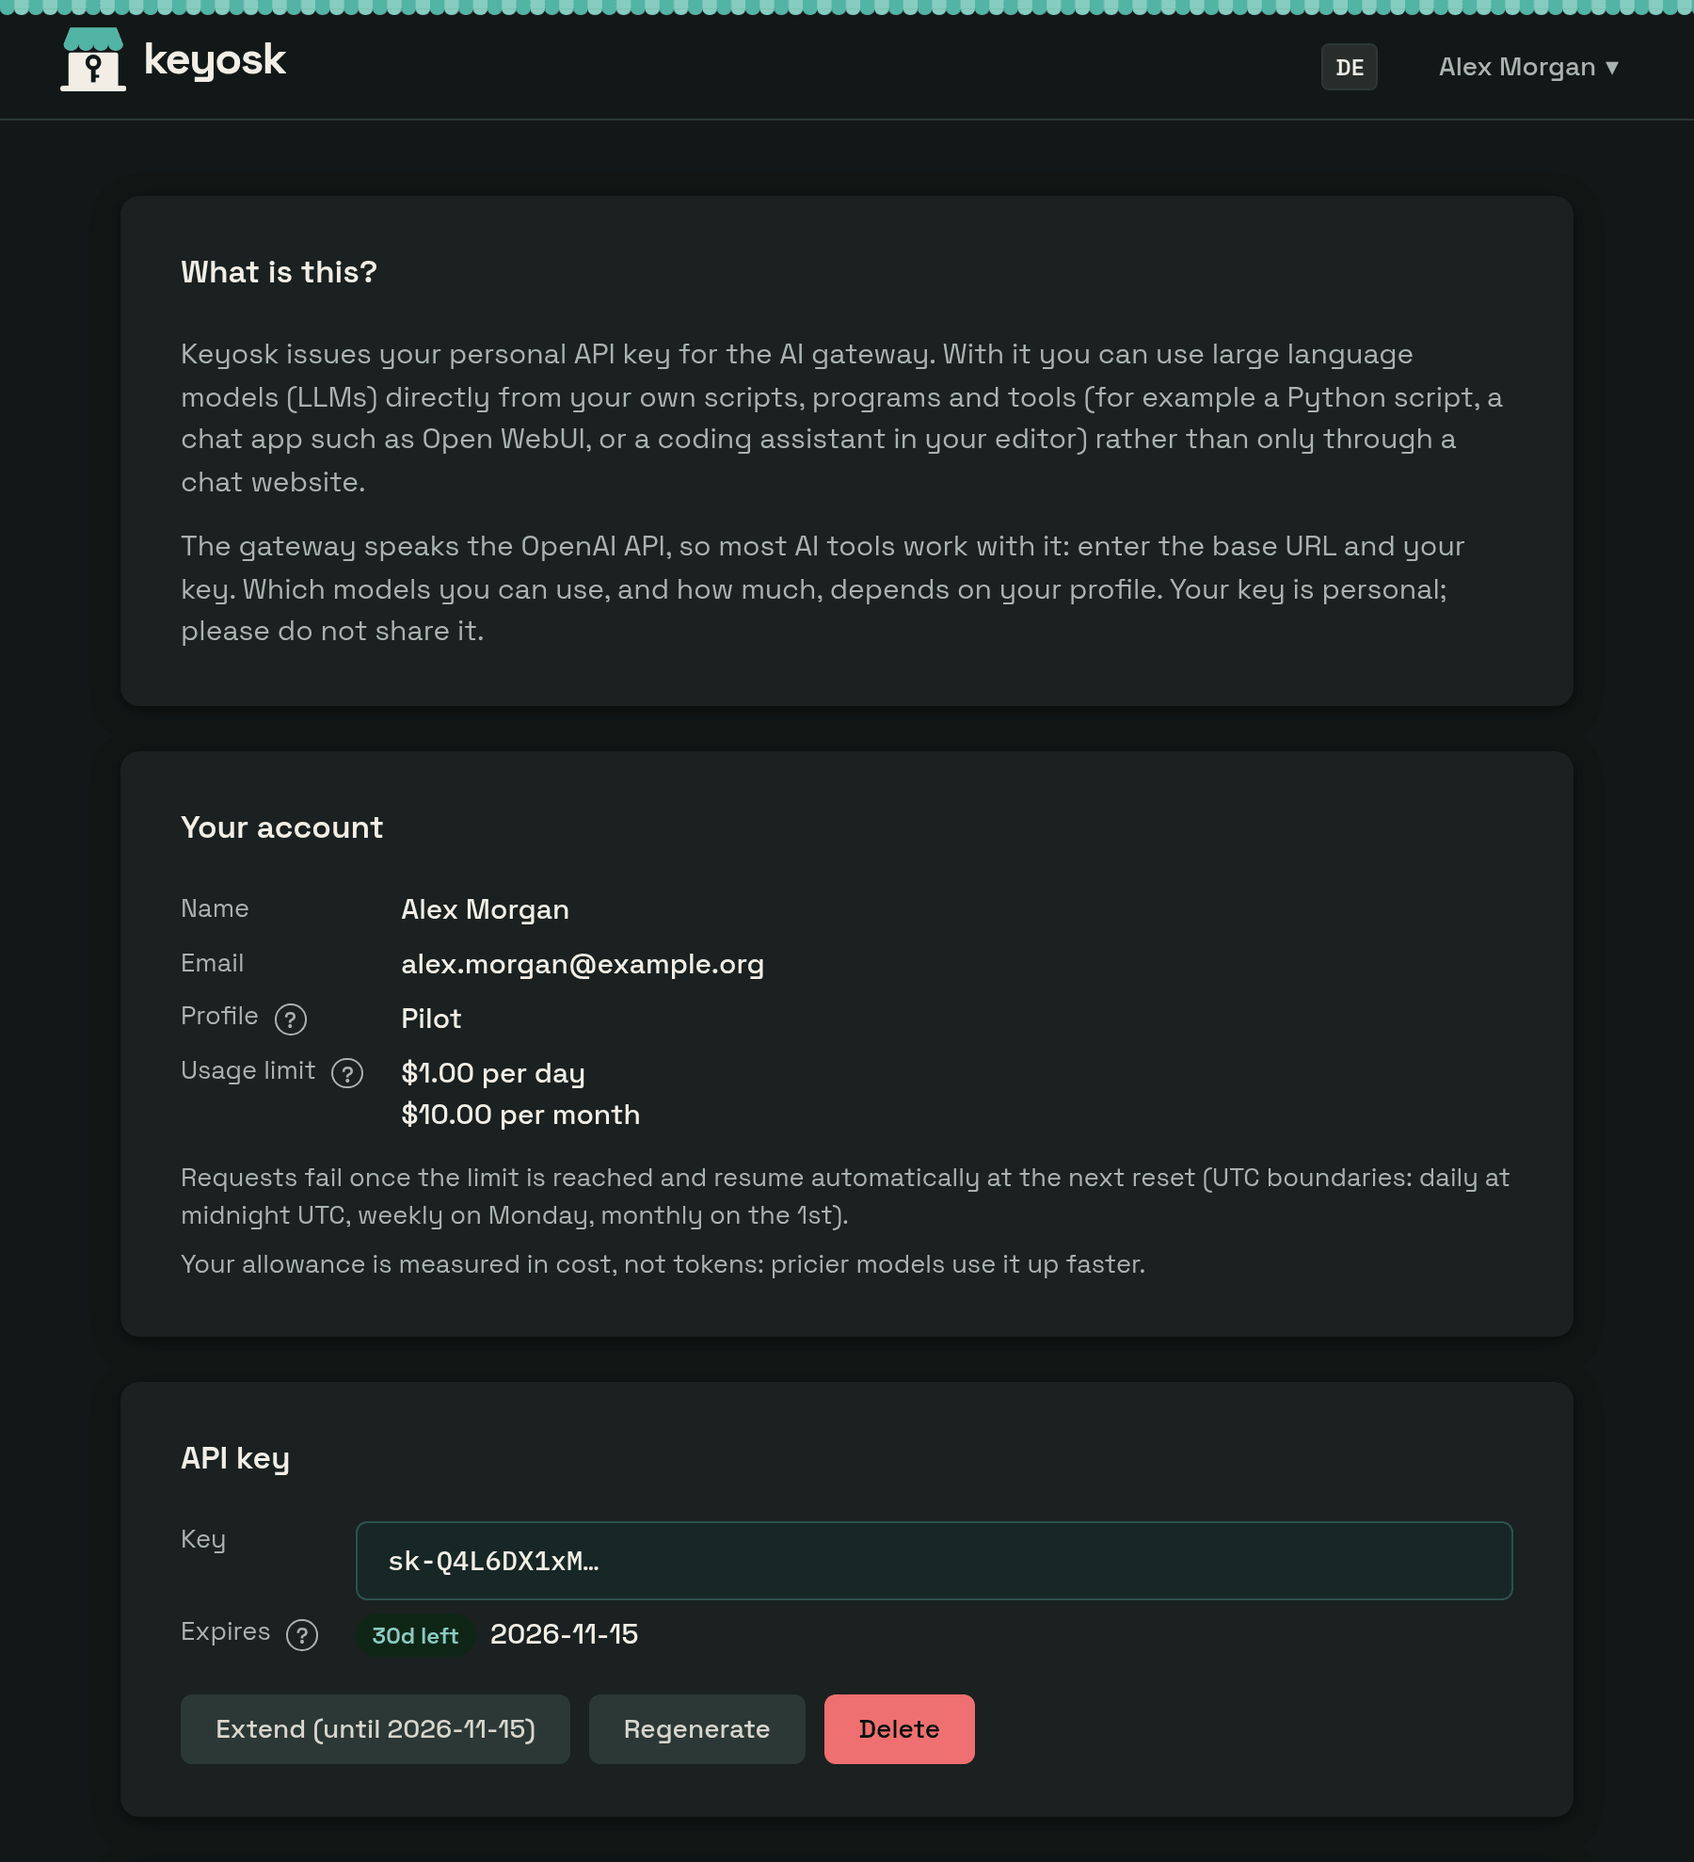
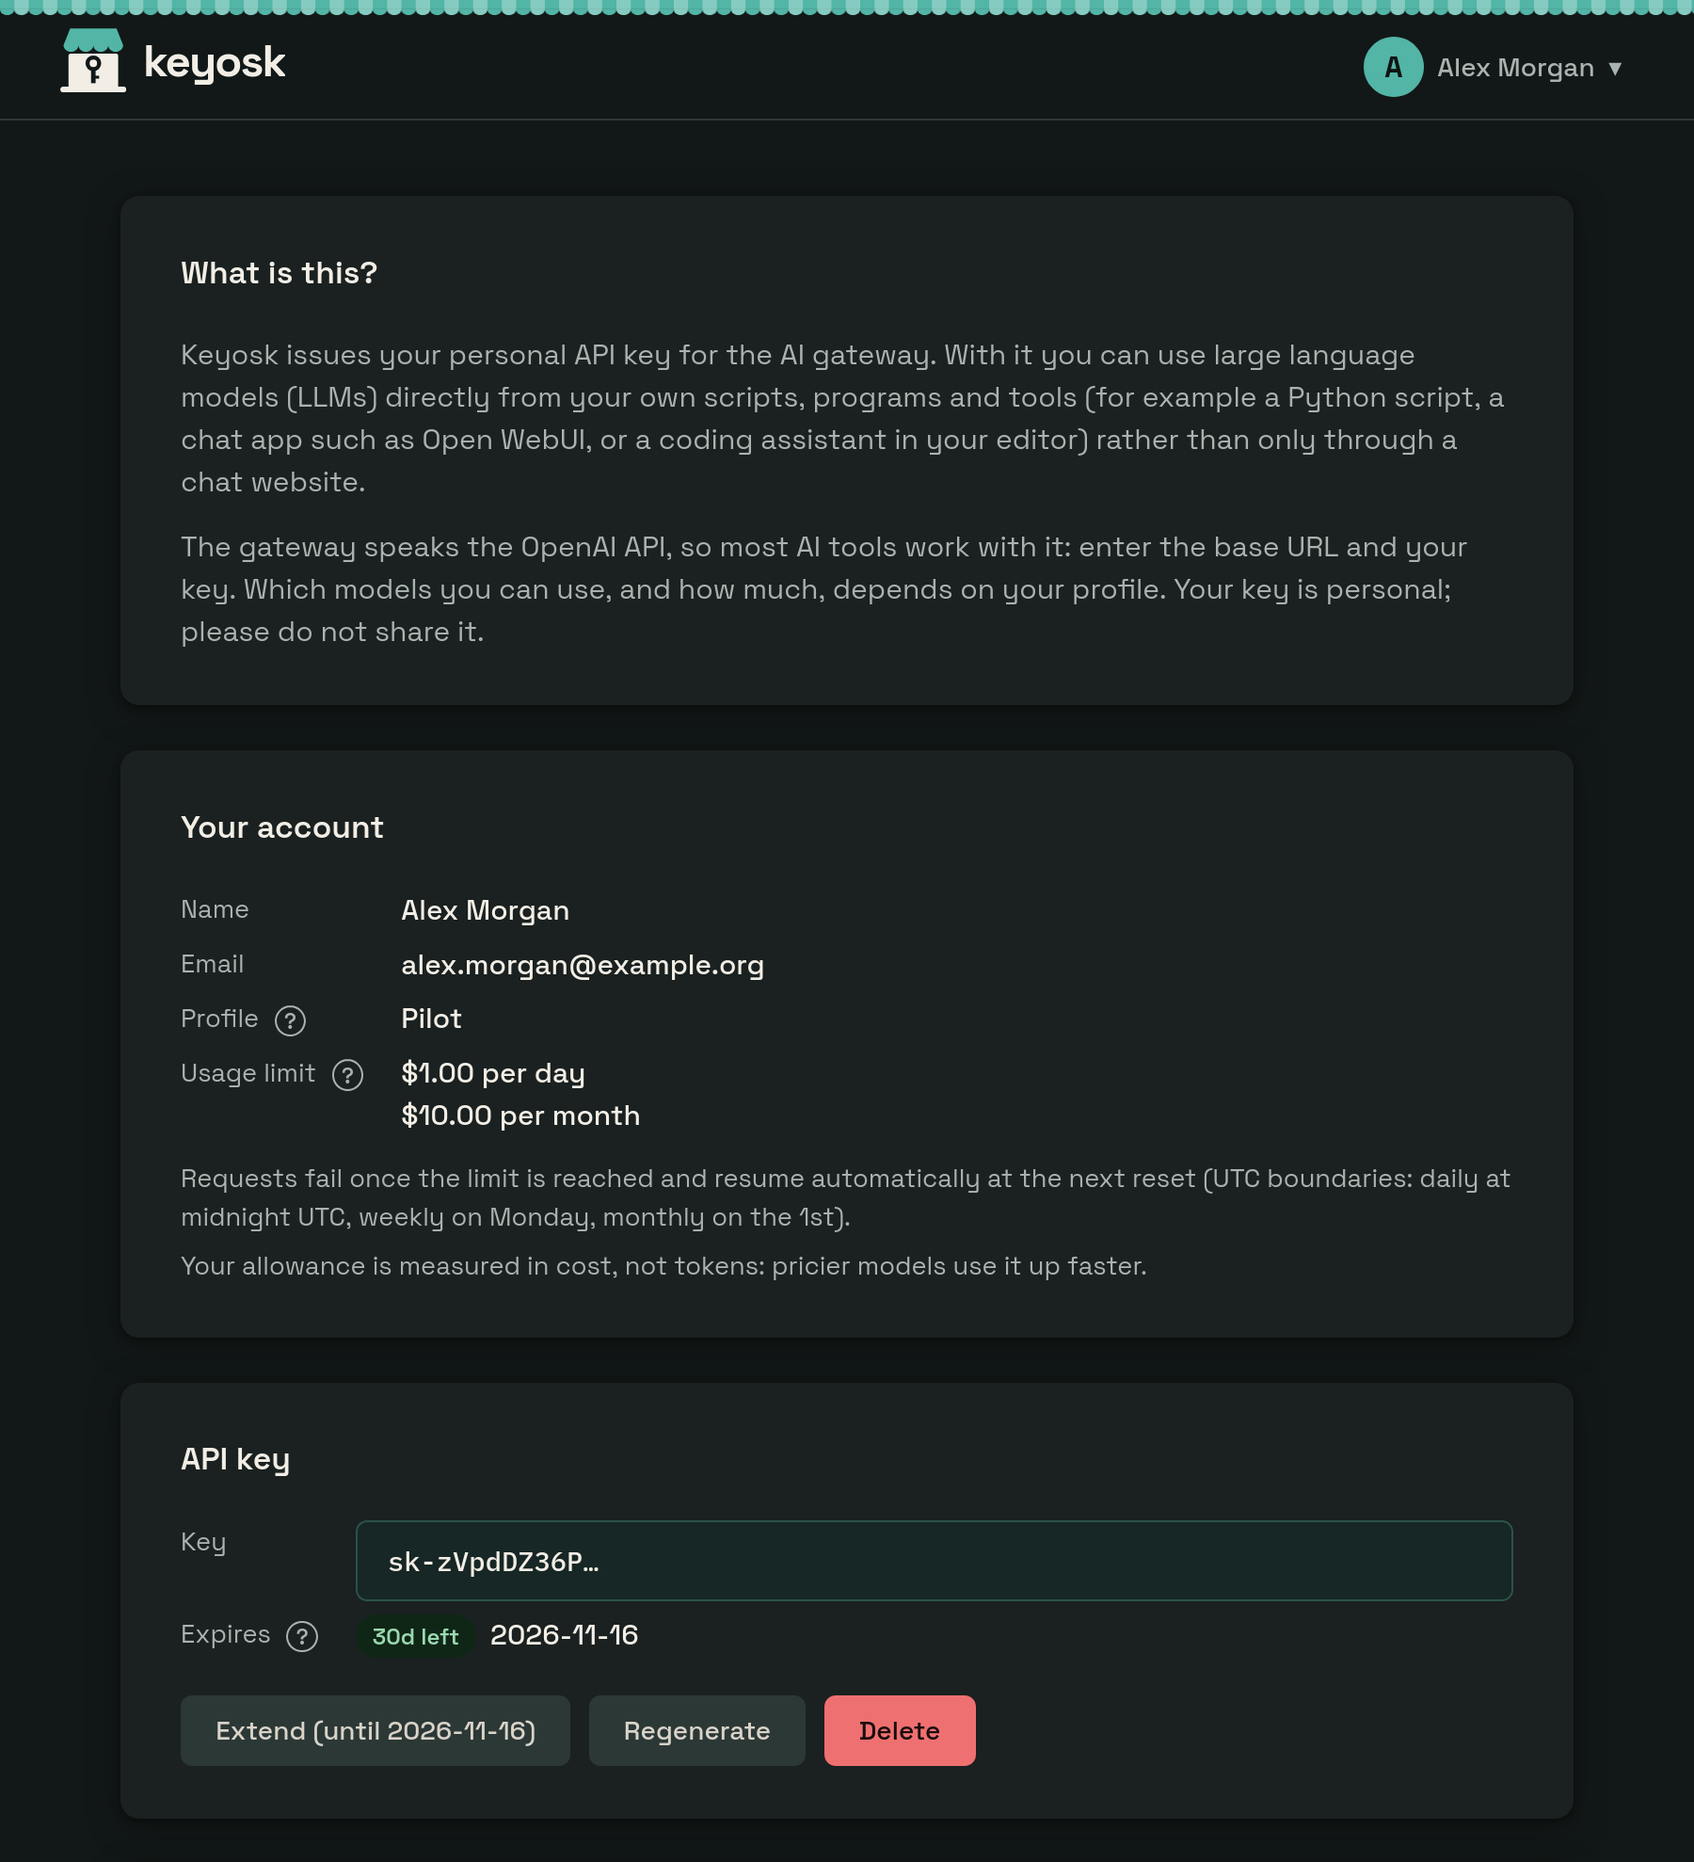
Point signed-in readers of the privacy notice to their settings
A signed-in reader gets the privacy notice in the language of the rest of
the interface and, unlike an anonymous one, no tabs to switch it. Someone
who never chose a language only follows the browser and had no hint where
to change it. Where the tabs would be, they now get a link to the account
settings, as long as the notice is written in more than one language.

The default choice in the language and theme dropdowns said "System
default", but the language comes from the browser, and so does the light
or dark mode: prefers-color-scheme is what the browser reports, and
browsers can override the operating system. Both now say "Browser
setting", and the docs no longer speak of the system's mode.

The dashboard screenshots still showed the language button and the old
header; they are retaken with the account menu.

diff --git a/web/templates/account.html b/web/templates/account.html
@@ -36,7 +36,7 @@
         <div class="form-group">
           <label for="setting-lang">{{T .Lang "lang.label"}}</label>
           <select id="setting-lang" name="lang">
-            <option value=""{{if not .LangPref}} selected{{end}}>{{T .Lang "account.system"}}</option>
+            <option value=""{{if not .LangPref}} selected{{end}}>{{T .Lang "account.browser"}}</option>
             {{- $pref := .LangPref}}{{range .Langs}}
             <option value="{{.}}" lang="{{.}}"{{if eq . $pref}} selected{{end}}>{{.Name}}</option>
             {{- end}}
@@ -45,7 +45,7 @@
         <div class="form-group">
           <label for="setting-theme">{{T .Lang "account.theme"}}</label>
           <select id="setting-theme" name="theme">
-            <option value=""{{if not .Theme}} selected{{end}}>{{T .Lang "account.system"}}</option>
+            <option value=""{{if not .Theme}} selected{{end}}>{{T .Lang "account.browser"}}</option>
             {{- $theme := .Theme}}{{range .Themes}}
             <option value="{{.}}"{{if eq . $theme}} selected{{end}}>{{if eq . "light"}}{{T $.Lang "account.light"}}{{else}}{{T $.Lang "account.dark"}}{{end}}</option>
             {{- end}}

diff --git a/web/static/style.css b/web/static/style.css
@@ -55,7 +55,7 @@
 /* ── Design tokens ───────────────────────────────────────── */
 /* The Keyosk palette: warm paper, dark teal-black ink, one teal accent.
    Each colour is a light-dark() pair, so the palette follows color-scheme:
-   the system's by default, or the one chosen in the account settings, which
+   the browser's by default, or the one chosen in the account settings, which
    the server writes onto <html data-theme>. */
 :root {
   /* Also tells the browser which scheme its own controls follow: without it
@@ -328,6 +328,9 @@ main.main-wide { max-width: 1280px; }
 /* The privacy notice is the operator's own prose markup, which the reset above
    would run together into one block. */
 .notice h3 { margin-top: 1.5rem; }
+/* Where an anonymous reader gets the language tabs, a signed-in one gets a
+   link to the account settings. */
+.notice-lang { text-align: right; font-size: .85rem; margin-bottom: 1rem; }
 .notice p, .notice ul { margin-bottom: .75rem; }
 .notice ul { padding-left: 1.25rem; }
 .notice li { margin-bottom: .4rem; }

diff --git a/web/templates/privacy.html b/web/templates/privacy.html
@@ -18,6 +18,8 @@
       <a class="tab-btn{{if eq . $cur}} active{{end}}" href="/privacy?lang={{.}}" lang="{{.}}"{{if eq . $cur}} aria-current="page"{{end}}>{{.Name}}</a>
       {{- end}}
     </nav>
+    {{else if .SettingsLink}}
+    <p class="notice-lang"><a href="/account">{{T .Lang "privacy.changelang"}}</a></p>
     {{end}}
     <div class="notice" lang="{{.NoticeLang}}">
       {{.Notice}}

diff --git a/internal/handlers/account_test.go b/internal/handlers/account_test.go
@@ -87,18 +87,18 @@ func TestAccountPageNeedsALogin(t *testing.T) {
 	}
 }
 
-// Without a choice both settings say "system", even when the browser asks for
-// a language the portal has: following the browser is not the same as having
-// picked German.
+// Without a choice both settings say "browser setting", even when the browser
+// asks for a language the portal has: following the browser is not the same as
+// having picked German.
 func TestAccountPageSelectsTheCurrentChoices(t *testing.T) {
 	ui, _, _, _ := newTestUI(t, "acct3")
 
 	page := getAccount(t, ui, "/account").Body.String()
 	if got := selected(t, page, "lang"); got != "" {
-		t.Errorf("language %q selected without a choice, want system", got)
+		t.Errorf("language %q selected without a choice, want the browser setting", got)
 	}
 	if got := selected(t, page, "theme"); got != "" {
-		t.Errorf("theme %q selected without a choice, want system", got)
+		t.Errorf("theme %q selected without a choice, want the browser setting", got)
 	}
 	// Every language is offered under its own name.
 	for _, l := range i18n.Supported {
@@ -119,8 +119,8 @@ func TestAccountPageSelectsTheCurrentChoices(t *testing.T) {
 	}
 }
 
-// A choice is kept for a year; "system" deletes the cookie, so the browser
-// and the operating system decide again.
+// A choice is kept for a year; the browser setting deletes the cookie, so the
+// browser decides again.
 func TestSaveAccountStoresAndClearsTheChoices(t *testing.T) {
 	ui, _, _, _ := newTestUI(t, "acct4")
 
@@ -148,7 +148,7 @@ func TestSaveAccountStoresAndClearsTheChoices(t *testing.T) {
 	c = cookies(saveAccount(t, ui, url.Values{"lang": {""}, "theme": {""}}))
 	for _, name := range []string{i18n.CookieName, themeCookie} {
 		if c[name] == nil || c[name].MaxAge >= 0 {
-			t.Errorf("choosing system does not delete the %s cookie: %+v", name, c[name])
+			t.Errorf("choosing the browser setting does not delete the %s cookie: %+v", name, c[name])
 		}
 	}
 }
@@ -183,7 +183,7 @@ func TestAccountPageConfirmsTheSave(t *testing.T) {
 }
 
 // A chosen theme is on <html> when the page arrives, so it applies before the
-// first paint; without one the page has no attribute and follows the system.
+// first paint; without one the page has no attribute and follows the browser.
 func TestPagesCarryTheChosenTheme(t *testing.T) {
 	ui, _, _, _ := newTestUI(t, "acct7")
 
@@ -224,7 +224,7 @@ func TestPagesCarryTheChosenTheme(t *testing.T) {
 func TestAccountPageFullyGerman(t *testing.T) {
 	ui, _, _, _ := newTestUI(t, "acct8")
 	page := getAccount(t, ui, "/account?saved=1", &http.Cookie{Name: i18n.CookieName, Value: "de"}).Body.String()
-	for _, english := range []string{"Account settings", "Appearance", "Username", "User ID", ">Theme<", ">Light<", ">Dark<", ">Save<", "System default", "have been saved"} {
+	for _, english := range []string{"Account settings", "Appearance", "Username", "User ID", ">Theme<", ">Light<", ">Dark<", ">Save<", "Browser setting", "have been saved"} {
 		if strings.Contains(page, english) {
 			t.Errorf("untranslated on the German page: %q", english)
 		}

diff --git a/internal/i18n/messages.go b/internal/i18n/messages.go
@@ -7,15 +7,16 @@ package i18n
 // itself — a visibly wrong label is better than a blank page.
 var messages = map[string]map[Lang]string{
 	// ── Shared ──────────────────────────────────────────────────────────
-	"app.title":     {DE: "Keyosk", EN: "Keyosk"},
-	"nav.admin":     {DE: "Administration", EN: "Admin"},
-	"nav.dashboard": {DE: "Übersicht", EN: "Dashboard"},
-	"nav.signout":   {DE: "Abmelden", EN: "Sign out"},
-	"nav.privacy":   {DE: "Datenschutz", EN: "Privacy"},
-	"nav.account":   {DE: "Konto", EN: "Account"},
-	"privacy.title": {DE: "Datenschutzhinweise", EN: "Privacy notice"},
-	"lang.label":    {DE: "Sprache", EN: "Language"},
-	"nav.settings":  {DE: "Kontoeinstellungen", EN: "Account settings"},
+	"app.title":          {DE: "Keyosk", EN: "Keyosk"},
+	"nav.admin":          {DE: "Administration", EN: "Admin"},
+	"nav.dashboard":      {DE: "Übersicht", EN: "Dashboard"},
+	"nav.signout":        {DE: "Abmelden", EN: "Sign out"},
+	"nav.privacy":        {DE: "Datenschutz", EN: "Privacy"},
+	"nav.account":        {DE: "Konto", EN: "Account"},
+	"privacy.title":      {DE: "Datenschutzhinweise", EN: "Privacy notice"},
+	"privacy.changelang": {DE: "Sprache ändern", EN: "Change language"},
+	"lang.label":         {DE: "Sprache", EN: "Language"},
+	"nav.settings":       {DE: "Kontoeinstellungen", EN: "Account settings"},
 
 	// ── Account settings ────────────────────────────────────────────────
 	"account.title":      {DE: "Kontoeinstellungen", EN: "Account settings"},
@@ -24,7 +25,7 @@ var messages = map[string]map[Lang]string{
 	"account.subject":    {DE: "OIDC-Subject", EN: "OIDC subject"},
 	"account.appearance": {DE: "Darstellung", EN: "Appearance"},
 	"account.theme":      {DE: "Farbschema", EN: "Theme"},
-	"account.system":     {DE: "Wie im System", EN: "System default"},
+	"account.browser":    {DE: "Wie im Browser", EN: "Browser setting"},
 	"account.light":      {DE: "Hell", EN: "Light"},
 	"account.dark":       {DE: "Dunkel", EN: "Dark"},
 	"account.save":       {DE: "Speichern", EN: "Save"},

diff --git a/internal/handlers/privacy.go b/internal/handlers/privacy.go
@@ -28,10 +28,12 @@ type privacyData struct {
 	// from Lang when the reader's language has none.
 	NoticeLang i18n.Lang
 	// Tabs are the languages an anonymous reader can switch the notice to,
-	// empty unless there is more than one. A signed-in reader has chosen a
-	// language in the account settings and gets that.
-	Tabs     []i18n.Lang
-	TitleKey string
+	// empty unless there is more than one. A signed-in reader gets the
+	// notice in the interface's language, which the account settings choose,
+	// so SettingsLink points them there instead.
+	Tabs         []i18n.Lang
+	SettingsLink bool
+	TitleKey     string
 	// User is nil for an anonymous reader, who gets no account menu.
 	User          *database.User
 	IsAdmin       bool
@@ -92,7 +94,9 @@ func hasPrivacyNotice(cfg *config.Config) bool {
 //
 // An anonymous reader gets one tab per language the notice is written in,
 // each a link with ?lang. The parameter only picks what this page shows and
-// stores nothing, so the GET stays free of side effects.
+// stores nothing, so the GET stays free of side effects. A signed-in reader
+// gets the notice in the language of the rest of the interface, and a link to
+// the account settings, where that is chosen.
 func (u *UI) Privacy(w http.ResponseWriter, r *http.Request) {
 	if !hasPrivacyNotice(u.cfg) {
 		http.NotFound(w, r)
@@ -111,6 +115,7 @@ func (u *UI) Privacy(w http.ResponseWriter, r *http.Request) {
 	if su, err := u.requireSession(r); err == nil && su != nil {
 		data.User = su.User
 		data.IsAdmin = su.User.IsAdmin
+		data.SettingsLink = len(noticeLangs(u.cfg)) > 1
 	} else {
 		if l := i18n.Lang(r.URL.Query().Get("lang")); i18n.Valid(l) {
 			data.Lang = l

diff --git a/internal/handlers/privacy_test.go b/internal/handlers/privacy_test.go
@@ -192,13 +192,17 @@ func TestPrivacyPageOffersTheNoticesLanguages(t *testing.T) {
 	}
 }
 
-// One notice needs no tabs, and a signed-in reader has chosen a language in
-// the account settings, so gets that one without tabs.
+// One notice needs no tabs, and a signed-in reader gets the language of the
+// rest of the interface, with a link to the account settings rather than tabs.
 func TestPrivacyPageTabsOnlyWhenThereIsAChoice(t *testing.T) {
 	ui, _, _, _ := newTestUI(t, "priv6")
 	ui.cfg.PrivacyNoticeDE = "<p>Deutscher Text</p>"
-	if got := tabs(getPrivacy(t, ui, i18n.EN).Body.String()); got != nil {
+	page := getPrivacy(t, ui, i18n.EN).Body.String()
+	if got := tabs(page); got != nil {
 		t.Errorf("tabs %v for a notice in one language", got)
+	}
+	if strings.Contains(page, `class="notice-lang"`) {
+		t.Error("language link for a notice in one language")
 	}
 
 	ui.cfg.PrivacyNoticeEN = "<p>English text</p>"
@@ -207,9 +211,12 @@ func TestPrivacyPageTabsOnlyWhenThereIsAChoice(t *testing.T) {
 	req.AddCookie(&http.Cookie{Name: i18n.CookieName, Value: "en"})
 	rec := httptest.NewRecorder()
 	ui.Privacy(rec, req)
-	page := rec.Body.String()
+	page = rec.Body.String()
 	if got := tabs(page); got != nil {
 		t.Errorf("signed-in reader got tabs %v", got)
+	}
+	if !strings.Contains(page, `<p class="notice-lang"><a href="/account">`) {
+		t.Error("signed-in reader gets no link to the account settings")
 	}
 	if !strings.Contains(page, "English text") {
 		t.Error("signed-in reader does not get the language they chose")

diff --git a/internal/handlers/theme.go b/internal/handlers/theme.go
@@ -5,7 +5,7 @@ import (
 )
 
 // Theme is the colour scheme chosen in the account settings. The empty Theme
-// follows the system, which is what a visitor without a choice gets.
+// follows the browser, which is what a visitor without a choice gets.
 type Theme string
 
 const (
@@ -20,7 +20,7 @@ const (
 // Themes lists the choices in the order the settings page offers them.
 var Themes = []Theme{ThemeSystem, ThemeLight, ThemeDark}
 
-// validTheme reports whether t is one of the choices, the system one included.
+// validTheme reports whether t is one of the choices, the browser's included.
 func validTheme(t Theme) bool {
 	for _, v := range Themes {
 		if v == t {
@@ -43,7 +43,7 @@ func ThemeFromRequest(r *http.Request) Theme {
 }
 
 // setPrefCookie stores a preference for a year, or deletes it when value is
-// empty, so that "follow the system" means no cookie at all rather than one
+// empty, so that "follow the browser" means no cookie at all rather than one
 // that has to be read and ignored.
 func setPrefCookie(w http.ResponseWriter, name, value string, secure bool) {
 	c := &http.Cookie{

diff --git a/internal/handlers/account.go b/internal/handlers/account.go
@@ -29,7 +29,7 @@ type accountData struct {
 	PrivacyNotice bool
 
 	// Langs and Themes are the choices the settings offer, besides the
-	// system's. LangPref is the language chosen here, empty when the page
+	// browser's. LangPref is the language chosen here, empty when the page
 	// follows the browser, so the form can tell the two apart even when the
 	// browser asks for the language that was chosen.
 	Langs    []i18n.Lang
@@ -79,7 +79,7 @@ func (u *UI) Account(w http.ResponseWriter, r *http.Request) {
 // than on the account: they apply before login too, on the public privacy
 // page, and are a matter of the device as much as of the person.
 //
-// An empty value follows the system and deletes the cookie. Anything else the
+// An empty value follows the browser and deletes the cookie. Anything else the
 // form does not offer only comes from a crafted request and is refused.
 func (u *UI) SaveAccount(w http.ResponseWriter, r *http.Request) {
 	if _, err := u.requireSession(r); err != nil {

diff --git a/docs/content/getting-started.md b/docs/content/getting-started.md
@@ -12,8 +12,8 @@
 ![The dashboard after login: the person's account with their profile and usage limit, and their API key with its expiry and buttons to extend, regenerate or delete it](images/screenshots/dashboard-dark.png#only-dark){ .screenshot width="900" }
 
 The interface and the expiry emails are in German and English. The interface
-follows the browser's language and the system's light or dark mode; users can
-choose either under *Account settings* in the account menu.
+follows the browser's language and light or dark mode; users can choose either
+under *Account settings* in the account menu.
 
 ## Try it locally
 
